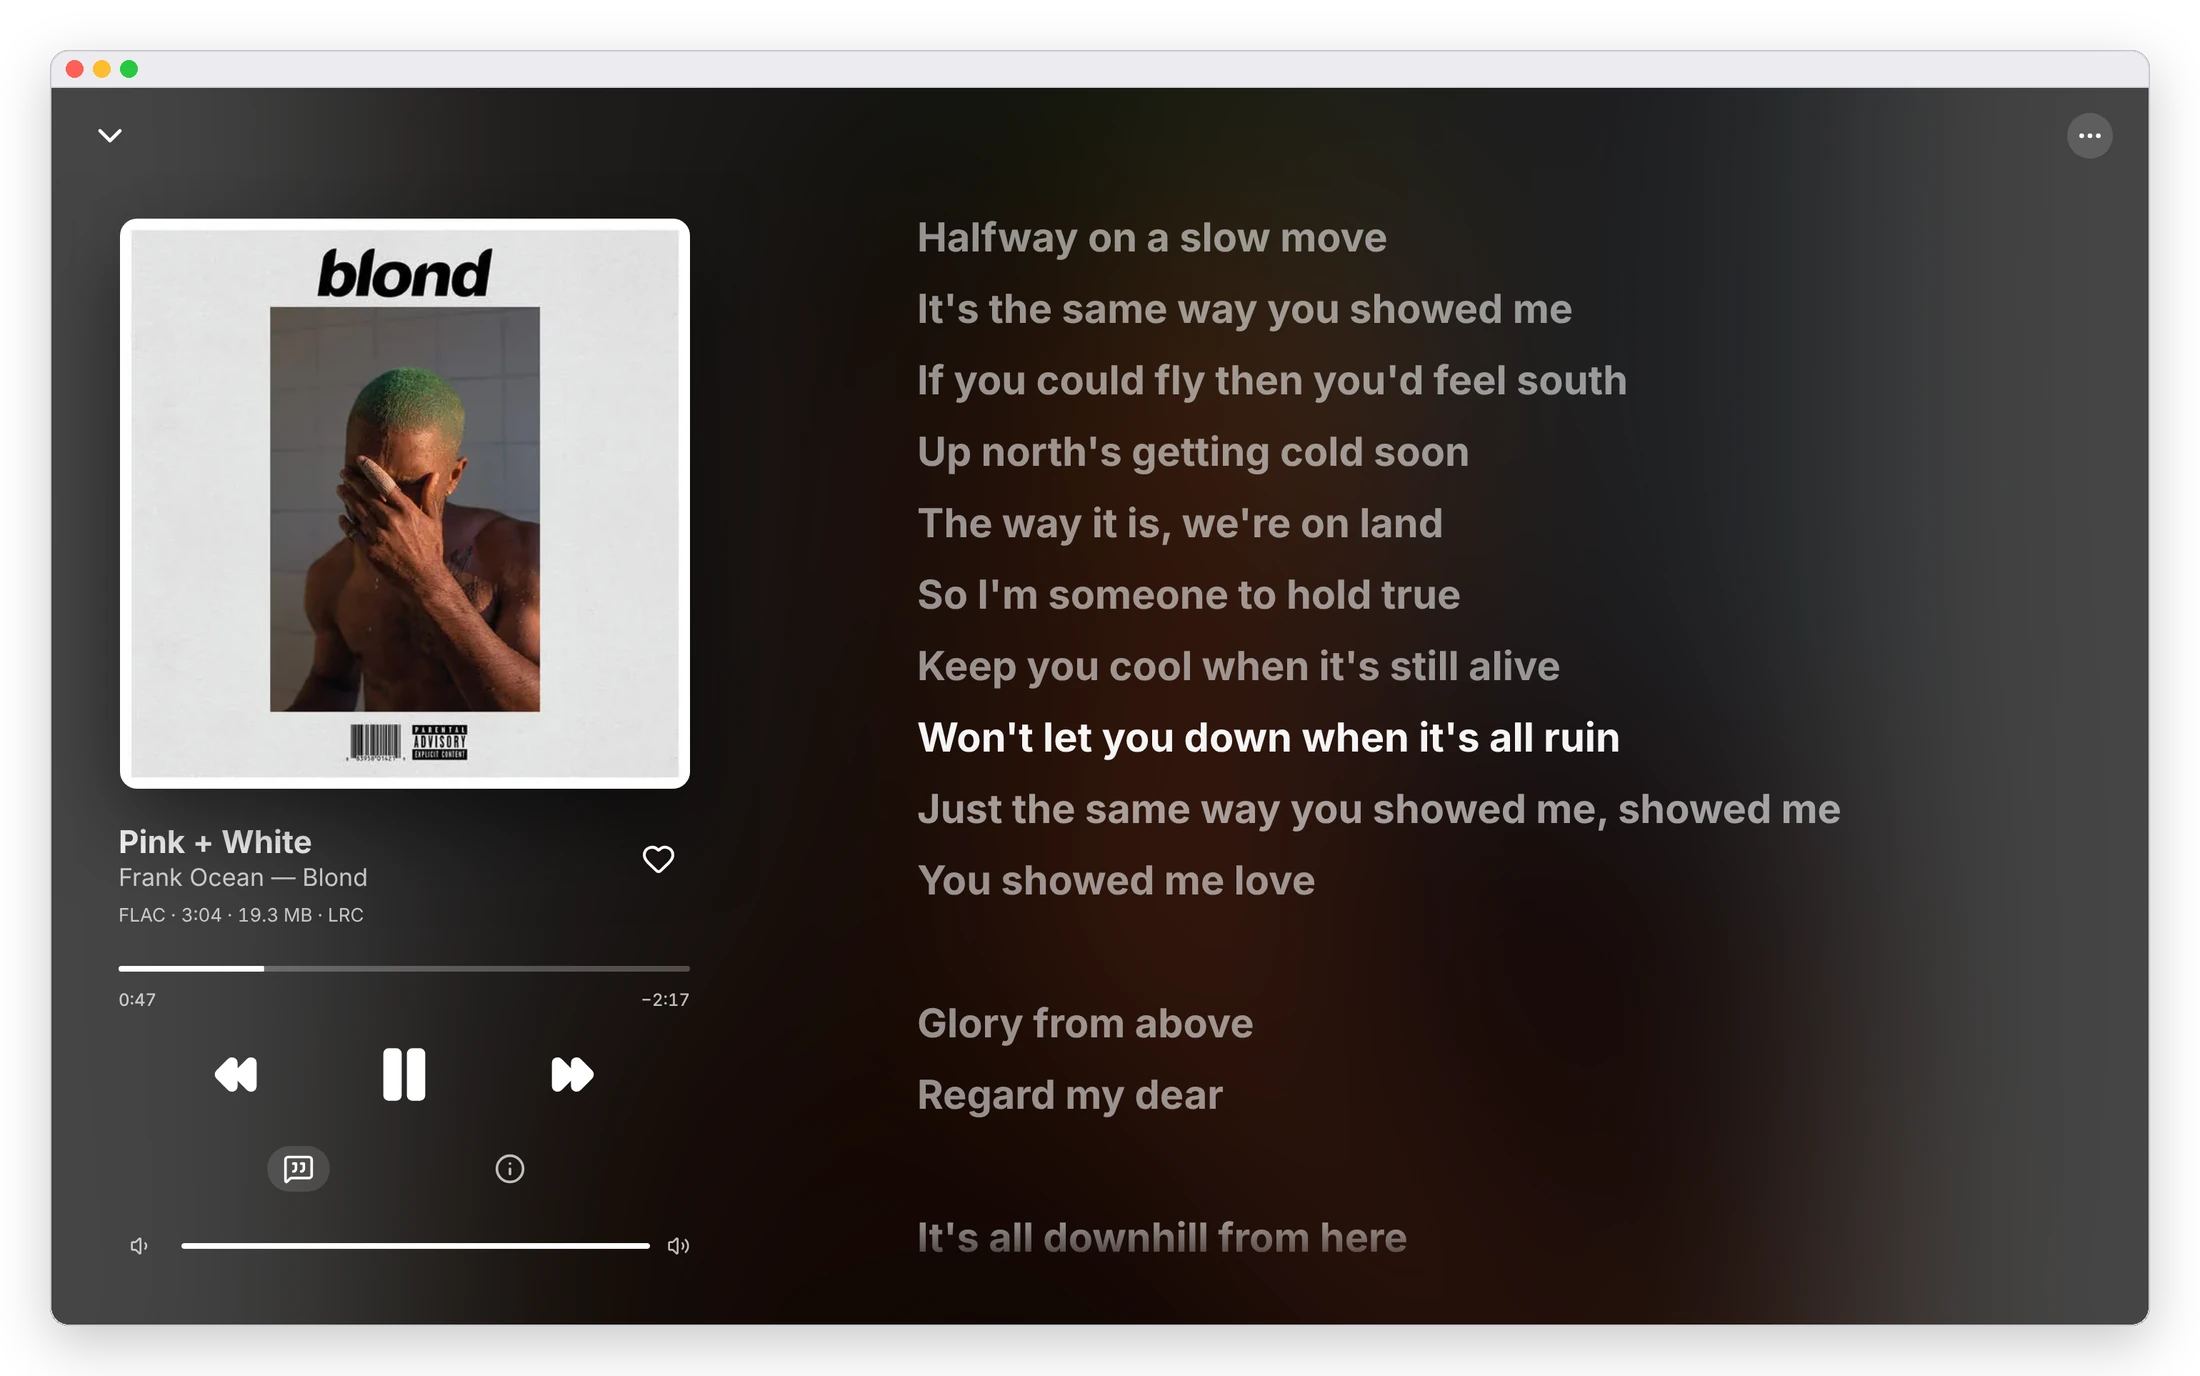
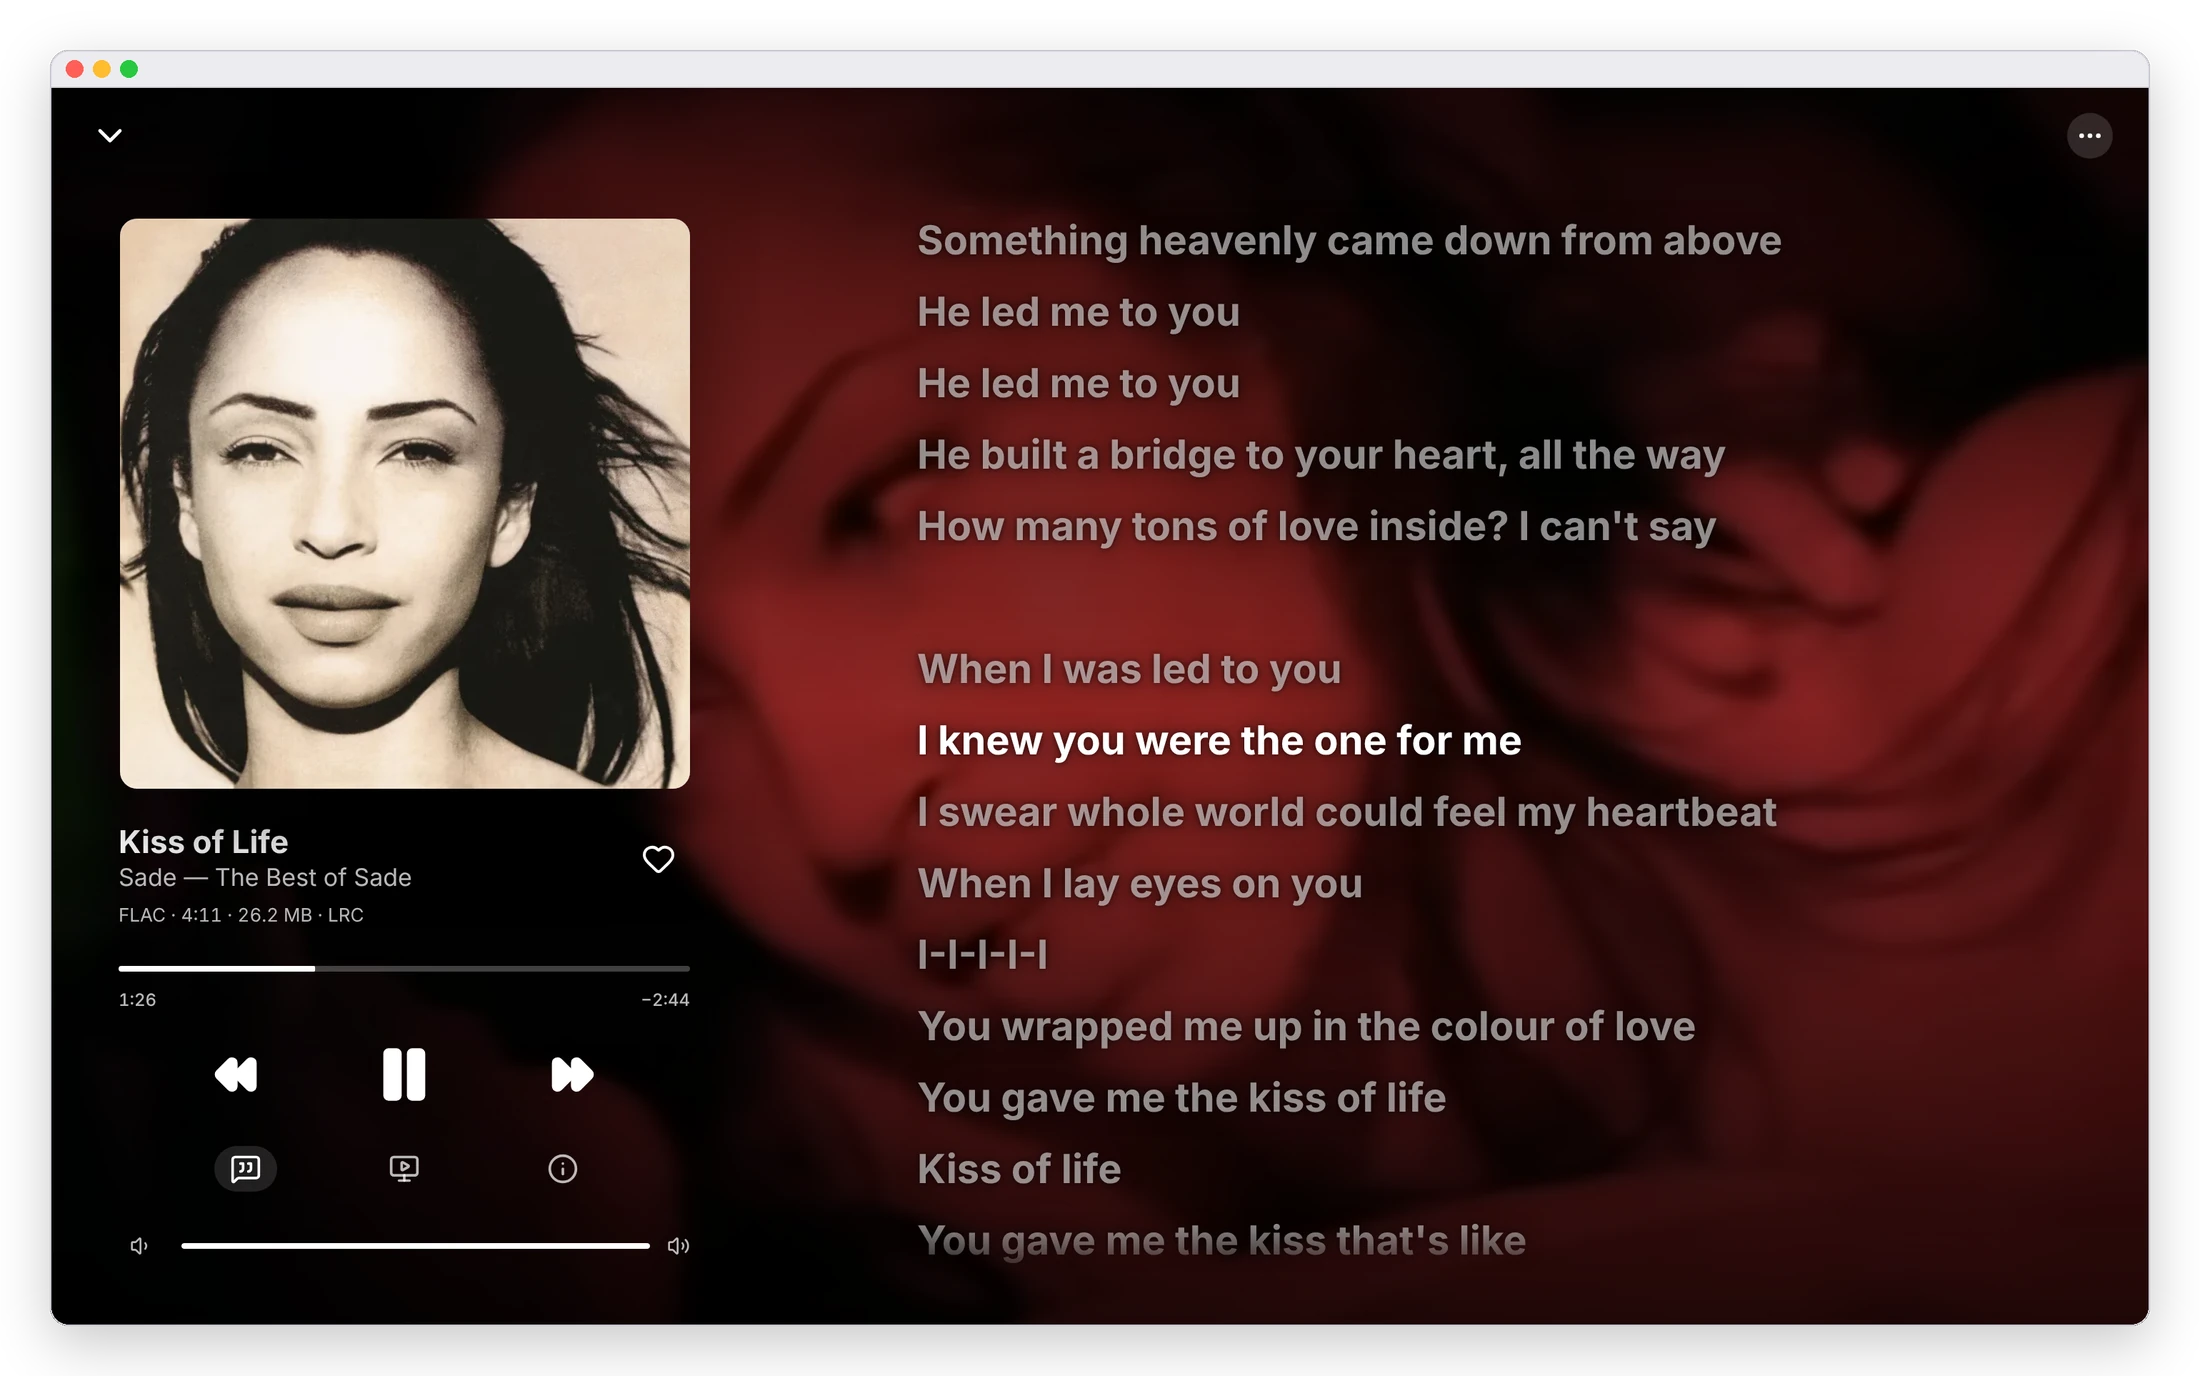
docs: retake the iPhone screenshots the way the installed app looks
The phone shots were Safari-sized, light and idle, which is not how the app
looks on a phone. They are now taken the way the installed app runs on an
iPhone 17/18 Pro: 402x874 pt with the 62 pt status bar outside the web view
and a 34 pt home-indicator inset, in dark mode, with a song loaded so the
mini player floats over the list, and Now Playing over the song's playing
music video. The desktop Now Playing uses the same song, and the README
describes the video backdrop.

Claude-Session: https://claude.ai/code/session_01L7bUgdJ6v7scM4XoYm7SHv

diff --git a/README.md b/README.md
@@ -18,7 +18,7 @@ library, let it run, and review anything it isn't sure about.
 
 <picture>
   <source media="(prefers-color-scheme: dark)" srcset="docs/screenshots/hero-dark.webp">
-  <img alt="MusicHoarder on the desktop and on an iPhone — the Albums grid of a real library next to Now Playing with time-synced lyrics over the album's artwork" src="docs/screenshots/hero.webp">
+  <img alt="MusicHoarder on the desktop and on an iPhone — the Albums grid of a real library next to Now Playing, with Sade's Kiss of Life showing time-synced lyrics over its own music video" src="docs/screenshots/hero.webp">
 </picture>
 
 <sub>Every screenshot in this README is of a real, self-hosted library of about 20,000 files — not
@@ -28,7 +28,7 @@ a mock-up. The image above follows your GitHub light or dark theme.</sub>
 
 ### Listen — an Apple Music-style player for the library you own
 
-![On an iPhone: the Listen tab's overview with its library shortcuts and favourite tracks, an album page with Play and Shuffle and its canonical-tracklist status, and Now Playing showing synced lyrics](docs/screenshots/phone-listen.webp)
+![The installed app on an iPhone in dark mode: the Tracks list filtered to Spotify liked songs, Frank Ocean's Blond album page, and Now Playing over the song's music video — with the mini player and the floating tab bar](docs/screenshots/phone-listen.webp)
 
 - **Built like a native iOS app** — on a phone, a floating glass tab bar (Listen · Inbox · Add ·
   Manage) with its own search button, large titles that collapse as you scroll, grouped lists,
@@ -39,9 +39,10 @@ a mock-up. The image above follows your GitHub light or dark theme.</sub>
   iOS text styles that follow the iPhone's Text Size (Dynamic Type), touch targets sized to
   Apple's guidelines, and support for Reduce Motion, Reduce Transparency and Increase Contrast.
   Every text colour is contrast-checked.
-- **Now Playing** — a full-screen, always-dark player over a dimmed, blurred copy of the cover, with
-  karaoke-style **synced lyrics** that follow the song (tap a line to jump to it), **music videos**
-  that play in sync with the audio, and an Info view with the track's tags, match confidence,
+- **Now Playing** — a full-screen, always-dark player over a dimmed, blurred copy of the cover — or,
+  when the song has a **music video**, the video itself, playing muted and in sync with the audio —
+  with karaoke-style **synced lyrics** that follow the song (tap a line to jump to it), a video
+  mode, and an Info view with the track's tags, match confidence,
   fingerprint and every provider's answer. Drag it down to dismiss; the mini player keeps playing
   as you move around the app.
 - **Keeps playing** — when a queue runs out, a server-side radio continues with similar songs from
@@ -58,7 +59,7 @@ a mock-up. The image above follows your GitHub light or dark theme.</sub>
   launches full-screen with its own icon and shows an offline page instead of a browser error. The
   native [Android app](android/README.md) mirrors the same design and behaviour.
 
-![Now Playing on the desktop: the album cover and transport controls on the left, and the song's time-synced lyrics on the right with the current line highlighted](docs/screenshots/now-playing.webp)
+![Now Playing on the desktop: Sade's Kiss of Life with its time-synced lyrics over the song's muted music video, the current line highlighted, and the cover and transport controls on the left](docs/screenshots/now-playing.webp)
 
 ### Identify, enrich & organize
 
@@ -113,7 +114,7 @@ a mock-up. The image above follows your GitHub light or dark theme.</sub>
 
 ![Tag review on the desktop: a file named "63 (Dagger) (feat. MadeInTYO).mp3" identified by its fingerprint as "Lean Wit Me" at 100%, next to the other providers' candidates and a From → Will-write-to diff of the file's path](docs/screenshots/inbox-review.webp)
 
-![On an iPhone: the Inbox hub with a count per queue, a Tag review decision with provider candidates and a bottom Accept toolbar, and the Pipeline summary with its stage-by-stage counts](docs/screenshots/phone-manage.webp)
+![The installed app on an iPhone in dark mode: the Inbox hub with a count per queue, a Tag review decision with provider candidates and a bottom Accept toolbar, and the Pipeline summary with its stage-by-stage counts](docs/screenshots/phone-manage.webp)
 
 ### Grow your library
 
